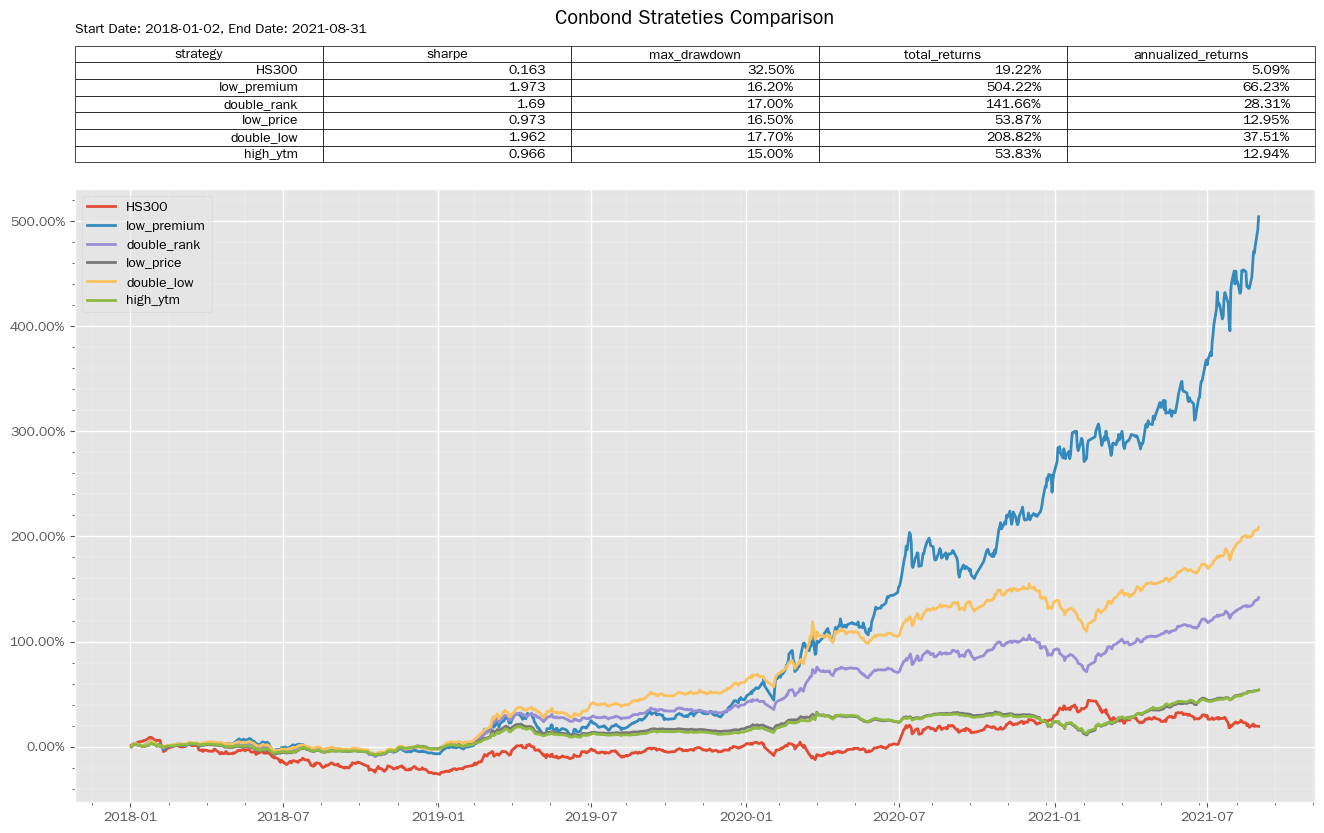
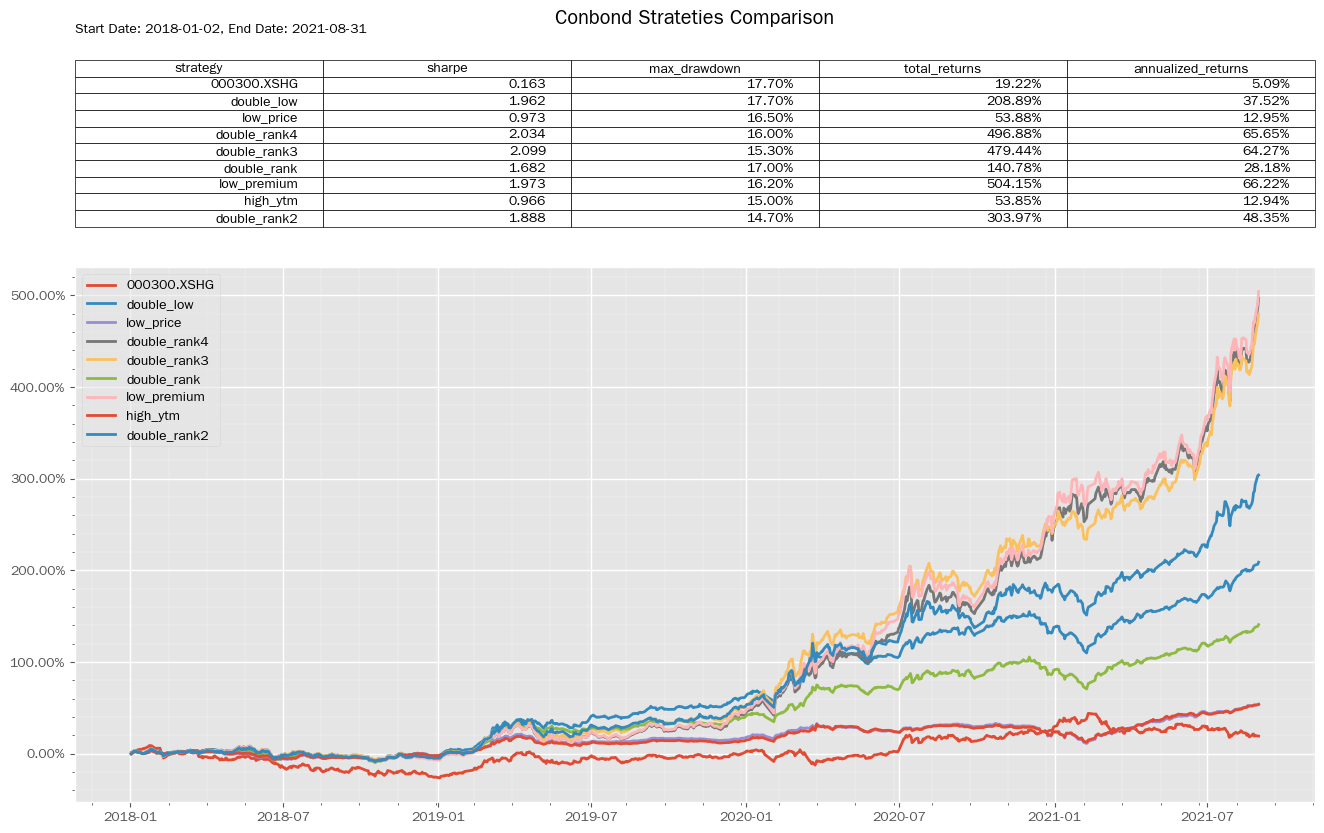
README

diff --git a/library/conbond/strategy.py b/library/conbond/strategy.py
@@ -71,6 +71,7 @@ def plot_results(results, savefile=None):
         logging.warn('Missing Chinese fonts. Fallback to English.')
 
     title = 'Conbond Strateties Comparison'
+    table_size = 2 if len(results) <= 6 else 3
     benchmark_portfolio = None
     start_date = None
     end_date = None
@@ -79,7 +80,7 @@ def plot_results(results, savefile=None):
     img_height = 10
     fig = plt.figure(title, figsize=(img_width, img_height))
     gs = gridspec.GridSpec(img_height, img_width)
-    ax = plt.subplot(gs[2:img_height, :])
+    ax = plt.subplot(gs[table_size:img_height, :])
     ax.get_xaxis().set_minor_locator(ticker.AutoMinorLocator())
     ax.get_yaxis().set_minor_locator(ticker.AutoMinorLocator())
     ax.grid(b=True, which='minor', linewidth=.2)
@@ -132,7 +133,7 @@ def plot_results(results, savefile=None):
     df[['max_drawdown', 'total_returns', 'annualized_returns'
         ]] = df[['max_drawdown', 'total_returns',
                  'annualized_returns']].applymap('{0:.2%}'.format)
-    ax2 = plt.subplot(gs[0:2, :])
+    ax2 = plt.subplot(gs[0:table_size, :])
     ax2.set_title(title)
     ax2.text(0, 1, 'Start Date: %s, End Date: %s' % (start_date, end_date))
     ax2.table(cellText=df.values, colLabels=df.columns, loc='center')

diff --git a/examples/main.py b/examples/main.py
@@ -12,7 +12,7 @@ FLAGS = flags.FLAGS
 flags.DEFINE_string('cache_dir', None, 'Cache directory')
 flags.DEFINE_integer('top', 20, 'Number of candidates')
 flags.DEFINE_string('data_source', 'jisilu', 'Data source: jisilu, rqdata')
-flags.DEFINE_string('positions', 'positions.json', 'File to store positions')
+flags.DEFINE_string('positions', '.positions.json', 'File to store positions')
 flags.DEFINE_string('txn_day',
                     date.today().strftime('%Y-%m-%d'),
                     'Date to generate the candidates')
@@ -26,7 +26,7 @@ def main(argv):
     username = None
     password = None
 
-    auth_file = pathlib.Path('auth.json')
+    auth_file = pathlib.Path('.auth.json')
     if not auth_file.exists():
         logging.fatal('auth.json is missing, see README.md')
     auth = json.load(auth_file.open('r'))

diff --git a/examples/backtest.py b/examples/backtest.py
@@ -22,6 +22,7 @@ flags.DEFINE_string('start_date', None, 'Backtest start date')
 flags.mark_flag_as_required('start_date')
 flags.DEFINE_string('end_date', None, 'Backtest end date')
 flags.mark_flag_as_required('end_date')
+flags.DEFINE_string('results', 'results.png', 'results plot file')
 
 
 # A few note for this to work:
@@ -185,7 +186,7 @@ def main(argv):
         k, r = backtest(sc, run_dir, FLAGS.cache_dir)
         results[k] = r['sys_analyser']
     print('Run dir: {0}, log: {0}/debug.log'.format(run_dir))
-    strategy.plot_results(results, savefile='results.png')
+    strategy.plot_results(results, savefile=FLAGS.results)
 
 
 if __name__ == '__main__':

diff --git a/utils/crawl_rq.py b/utils/crawl_rq.py
@@ -17,14 +17,13 @@ flags.DEFINE_string('start_date',
                     date.today().strftime('%Y-%m-%d'), 'Date to start')
 flags.DEFINE_string('end_date',
                     date.today().strftime('%Y-%m-%d'), 'Date to end')
-flags.DEFINE_string('auth_file', 'auth.json', 'Credential file')
 
 
 def main(argv):
     username = None
     password = None
 
-    auth_file = pathlib.Path('auth.json')
+    auth_file = pathlib.Path('.auth.json')
     auth = json.loads(auth_file.open('r').read())
     username = auth['rqdata']['username']
     password = auth['rqdata']['password']

diff --git a/utils/add_convertibles.py b/utils/add_convertibles.py
@@ -11,7 +11,6 @@ FLAGS = flags.FLAGS
 
 flags.DEFINE_string('infile', None, 'instrument.pk')
 flags.DEFINE_string('outfile', None, 'instrument_with_convertible.pk')
-flags.DEFINE_string('auth_file', 'auth.json', 'Auth file')
 
 
 def main(argv):
@@ -19,7 +18,7 @@ def main(argv):
     password = None
 
     data_source = 'rqdata'
-    auth_file = pathlib.Path('auth.json')
+    auth_file = pathlib.Path('.auth.json')
     if not auth_file.exists():
         logging.fatal('auth.json is missing, see README.md')
     auth = json.load(auth_file.open('r'))

diff --git a/examples/server.py b/examples/server.py
@@ -16,7 +16,7 @@ AUTH=None
 def jsl():
     global AUTH
     if not AUTH:
-        auth_file = pathlib.Path('auth.json')
+        auth_file = pathlib.Path('.auth.json')
         AUTH = json.load(auth_file.open('r'))
     username = AUTH['jisilu']['username']
     password = AUTH['jisilu']['password']

diff --git a/README.md b/README.md
@@ -30,14 +30,14 @@
   * 每一个转债的历史数据有，需要爬
   * 适用于手动轮动，生成基于运行当日数据的标的和操作。
 
-要使用聚宽/米筐的数据，需要申请使用，并将用户名密码放在auth.json里。
-要使用集思录的数据，需要将用户名和密码放在auth.json里。否则集思录无法获得完整的转债数据。
+要使用聚宽/米筐的数据，需要申请使用，并将用户名密码放在'.auth.json'里。
+要使用集思录的数据，需要将用户名和密码放在'.auth.json'里。否则集思录无法获得完整的转债数据。
 集思录现在是直接用python的requests获取，比较麻烦。也可以考虑Selenium的方案。
 
 付费的话，直接用米筐或者rqalpha-plus，交易用vnpy或者easytrader（都没试过）
 免费的话，最好的组合是用米筐的数据（或者聚宽的可能也可以），用rqalpha + 自己扩展的数据源进行回测。至少对于可转债是可以work的。
 
-auth.json的格式如下：
+.auth.json的格式如下：
 {
   "rqdata": {
     "username": "license",
@@ -53,7 +53,7 @@ auth.json的格式如下：
   },
 }
 
-持仓信息默认放在positions.json里面
+持仓信息默认放在'.positions.json'里面
 可以自己些计算策略的函数，也可以用library/里的现成的。
 要安装library/中的库，在library/目录下运行
 pip install -e .
